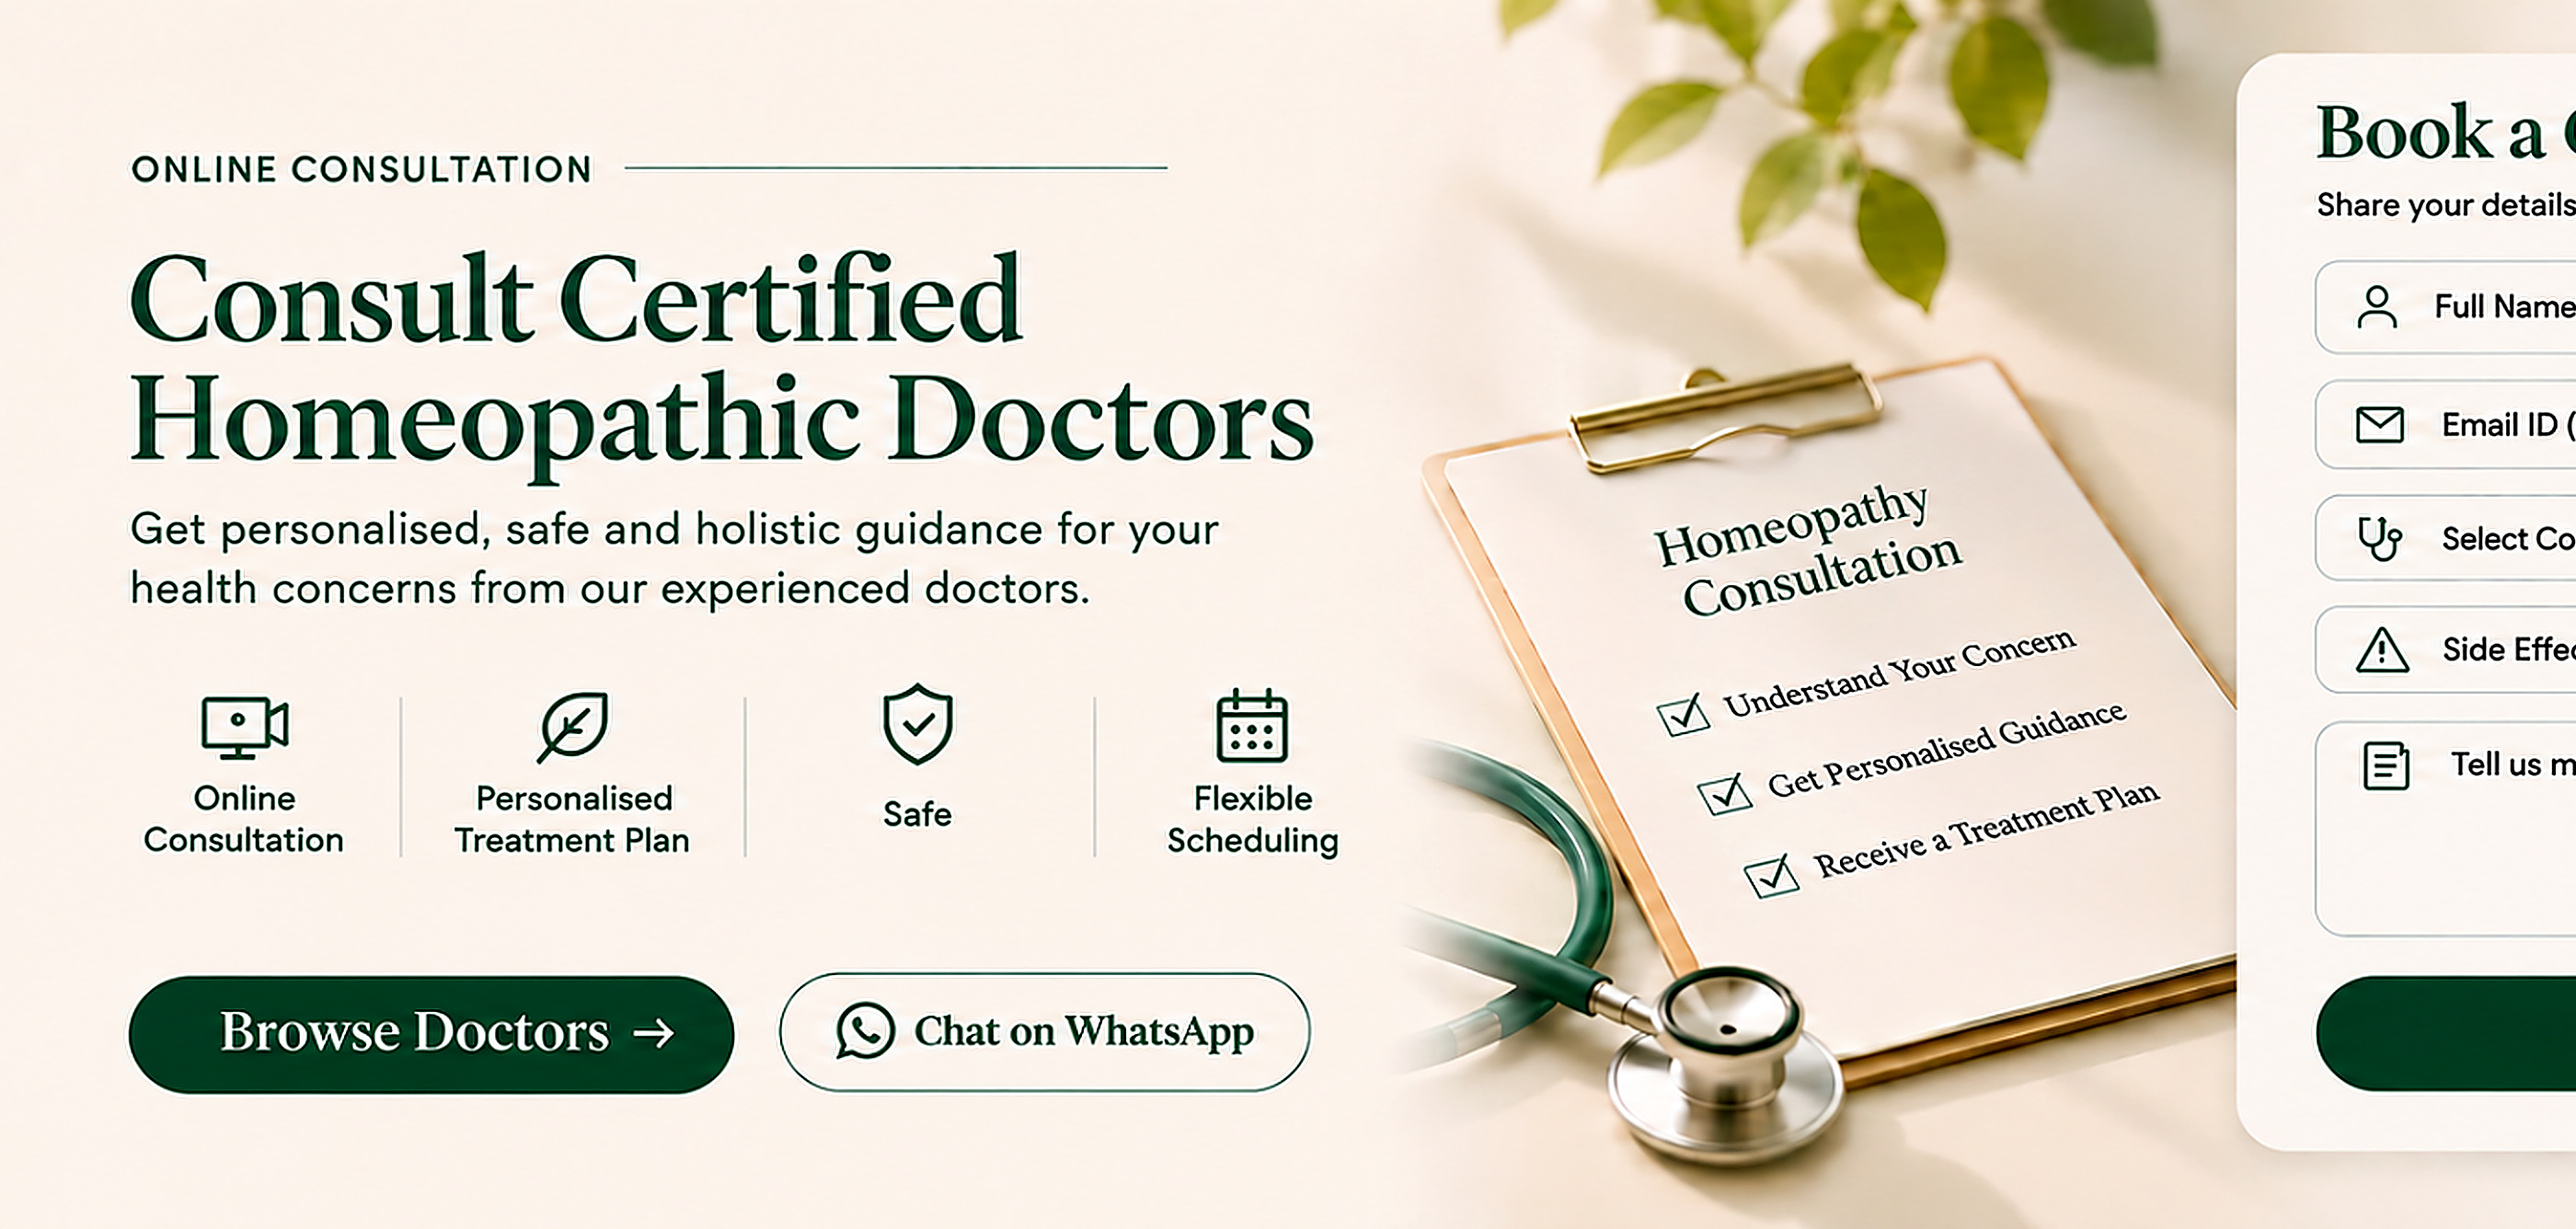
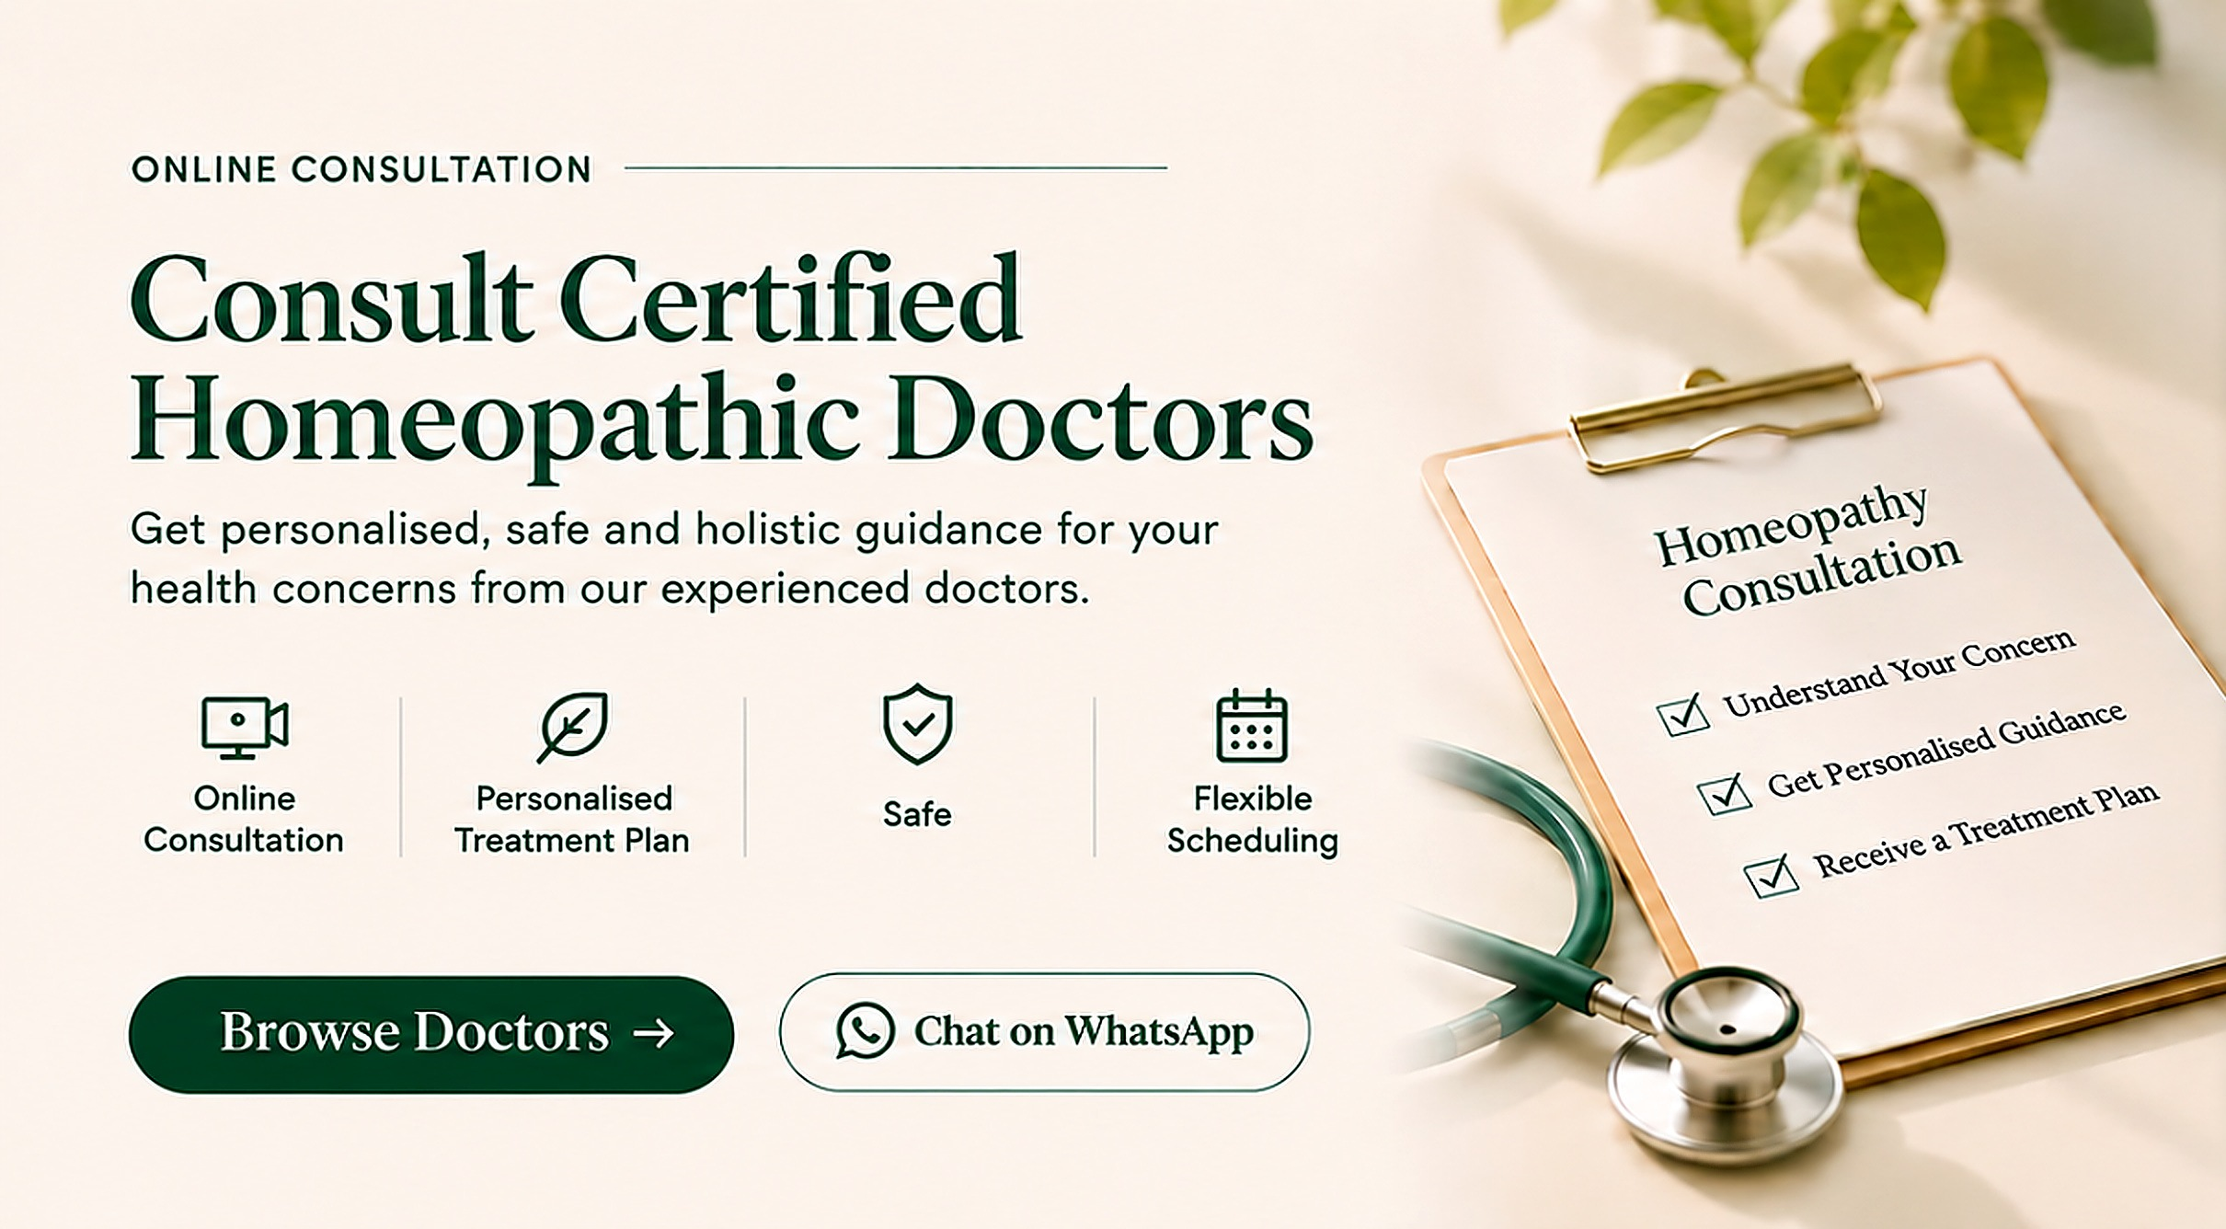
Remove painted form from consult art for one card
Crop the visual so the old banner form is gone, keep a single white
booking card on the cream shell, and drop the extra visual card chrome.

diff --git a/homeopathypharma/public/css/storefront.css b/homeopathypharma/public/css/storefront.css
@@ -923,29 +923,32 @@ body {
   .hp-product-rail { grid-template-columns: 1fr; }
 }
 
-/* Consult banner — artwork + single form card (no overlay / no double) */
+/* Consult banner — one cream shell, art left, single white form card right */
 .hp-consult-banner--split {
   display: grid;
   grid-template-columns: minmax(0, 1.45fr) minmax(20rem, 0.9fr);
   align-items: stretch;
-  gap: clamp(1rem, 2vw, 1.75rem);
+  gap: clamp(0.85rem, 1.8vw, 1.5rem);
   margin: 0;
-  padding: clamp(1rem, 2.2vw, 1.75rem) clamp(1rem, 3vw, 2.5rem);
+  padding: clamp(0.85rem, 1.8vw, 1.35rem) clamp(0.85rem, 2.2vw, 1.5rem);
   background:
-    radial-gradient(ellipse at 20% 20%, rgba(255, 255, 255, 0.7), transparent 55%),
-    linear-gradient(90deg, #f7f1ea 0%, #f3ece3 55%, #efe7dc 100%);
+    radial-gradient(ellipse at 18% 22%, rgba(255, 255, 255, 0.55), transparent 52%),
+    linear-gradient(90deg, #f6efe6 0%, #f3ebe2 52%, #efe6db 100%);
   width: 100%;
   box-sizing: border-box;
+  border-radius: clamp(1rem, 1.8vw, 1.5rem);
+  overflow: hidden;
 }
 
 .hp-consult-banner__visual {
   position: relative;
   isolation: isolate;
   min-width: 0;
-  border-radius: clamp(0.85rem, 1.4vw, 1.25rem);
+  border-radius: 0;
   overflow: hidden;
-  background: #f3ece3;
+  background: transparent;
   line-height: 0;
+  box-shadow: none;
 }
 
 .hp-consult-banner__art {
@@ -955,7 +958,7 @@ body {
   margin: 0;
   object-fit: cover;
   object-position: left center;
-  aspect-ratio: 2800 / 1336;
+  aspect-ratio: 2420 / 1336;
   image-rendering: auto;
   backface-visibility: hidden;
 }
@@ -998,8 +1001,10 @@ body {
   margin: 0;
   padding: 0;
   min-width: 0;
-  display: flex;
-  align-items: stretch;
+  display: block;
+  background: transparent;
+  border: 0;
+  box-shadow: none;
 }
 
 .hp-consult-banner__panel {
@@ -1017,10 +1022,22 @@ body {
   padding: clamp(1rem, 1.8vw, 1.4rem);
   box-sizing: border-box;
   background: #fff;
-  border-radius: clamp(0.95rem, 1.5vw, 1.35rem);
-  box-shadow: 0 14px 36px rgba(20, 40, 30, 0.12);
+  border: 0;
+  border-radius: clamp(0.85rem, 1.4vw, 1.15rem);
+  box-shadow: 0 10px 28px rgba(20, 40, 30, 0.1);
   line-height: normal;
   overflow: hidden;
+}
+
+/* Kill any leftover absolute/ghost layers from older consult overlays */
+.hp-consult-banner--split::before,
+.hp-consult-banner--split::after,
+.hp-consult-banner__form::before,
+.hp-consult-banner__form::after,
+.hp-consult-banner__panel::before,
+.hp-consult-banner__panel::after {
+  content: none !important;
+  display: none !important;
 }
 
 .hp-consult-banner__intro {

diff --git a/homeopathypharma/resources/views/layouts/app.blade.php b/homeopathypharma/resources/views/layouts/app.blade.php
@@ -12,8 +12,8 @@
     @php
         $hpCssApp = public_path('css/app.css');
         $hpCssStore = public_path('css/storefront.css');
-        $hpCssAppV = (is_file($hpCssApp) ? filemtime($hpCssApp) : time()).'-consult-split';
-        $hpCssStoreV = (is_file($hpCssStore) ? filemtime($hpCssStore) : time()).'-consult-split';
+        $hpCssAppV = (is_file($hpCssApp) ? filemtime($hpCssApp) : time()).'-consult-one-card';
+        $hpCssStoreV = (is_file($hpCssStore) ? filemtime($hpCssStore) : time()).'-consult-one-card';
     @endphp
     <link rel="stylesheet" href="{{ asset('css/app.css') }}?v={{ $hpCssAppV }}">
     <link rel="stylesheet" href="{{ asset('css/storefront.css') }}?v={{ $hpCssStoreV }}">

diff --git a/homeopathypharma/resources/views/home/index.blade.php b/homeopathypharma/resources/views/home/index.blade.php
@@ -179,9 +179,9 @@
         <div class="hp-consult-banner__visual">
             <img
                 class="hp-consult-banner__art"
-                src="{{ asset('img-raw.php') }}?f=consult-banner-visual-2x.jpg&v=20261105-consult-split"
+                src="{{ asset('img-raw.php') }}?f=consult-banner-visual-2x.jpg&v=20261105-consult-one-card"
                 alt="Online consultation — clipboard, stethoscope, and homeopathy checklist."
-                width="2800"
+                width="2420"
                 height="1336"
                 loading="eager"
                 decoding="async"
